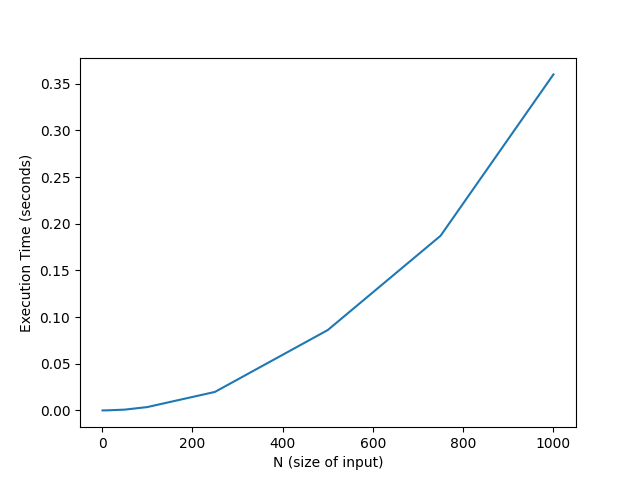
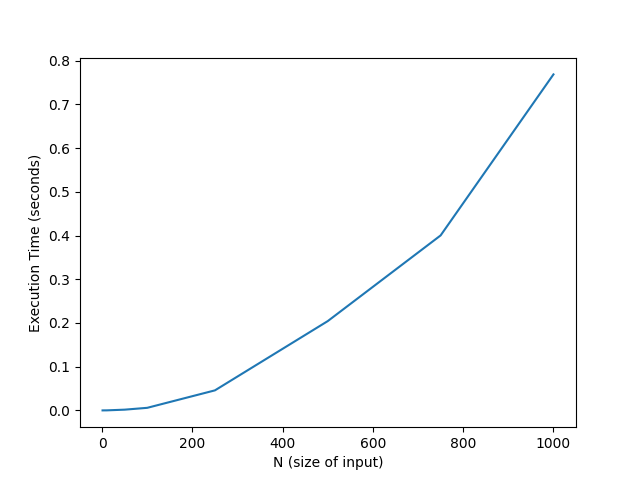
finished up print statements

diff --git a/test.py b/test.py
@@ -26,7 +26,7 @@ def run_gale_shapley_suite(args):
         end_time = time.perf_counter()
         elapsed_time = end_time - start_time
 
-        print(f"GS Execution Time: {elapsed_time:0.5f} seconds")
+        #print(f"GS Execution Time: {elapsed_time:0.5f} seconds")
     
         data[0].append(n), data[1].append(elapsed_time)
 
@@ -45,7 +45,7 @@ def run_gale_shapley(pref_file_path):
     end_time = time.perf_counter()
     elapsed_time = end_time - start_time
 
-    print(f"GS Execution Time: {elapsed_time:0.5f} seconds")
+    #print(f"GS Execution Time: {elapsed_time:0.5f} seconds")
 
     write_output_file(n, matching)
 
@@ -54,15 +54,25 @@ def run_verifier(pref_file_path, match_file_path):
     match_dir = Path(match_file_path)
 
     match_data = check_file_validity(match_dir)
+    if not match_data:
+        return
+    
     pref_data = read_input_file(pref_dir)
 
     start_time = time.perf_counter()
     result = check_stability(match_data, pref_data[1], pref_data[2])
-    print(result)
+    
+    if(result):
+        print(f"Test with n = {pref_data[0]} ")
+        print("UNSTABLE ", result)
+        
     end_time = time.perf_counter()
     elapsed_time = end_time - start_time
-
-    print(f"Verifier Execution Time: {elapsed_time:0.5f} seconds")
+    
+    if(match_data and not result):
+        print(f"Test with n = {pref_data[0]} ")
+        print("VALID STABLE")
+    #print(f"Verifier Execution Time: {elapsed_time:0.5f} seconds")
 
 def run_verifier_suite(pref_path, match_path):
     pref_dir = Path(pref_path)
@@ -83,15 +93,30 @@ def run_verifier_suite(pref_path, match_path):
     for pref_file, match_file in zip(pref_files, match_files):
         pref_data = read_input_file(pref_file)
         match_data = check_file_validity(match_file)
+        
         n = pref_data[0]
 
+        if not match_data:
+            continue
+        
         start_time = time.perf_counter()
         result = check_stability(match_data, pref_data[1], pref_data[2])
-        print(result)
+        
+        if(result):
+            print(f"Test with n = {n} ")
+            print("UNSTABLE ", result)
+            print()
+            
+            
         end_time = time.perf_counter()
+        
         elapsed_time = end_time - start_time
-
-        print(f"Verifier Execution Time: {elapsed_time:0.5f} seconds")
+        
+        if(match_data and not result):
+            print(f"Test with n = {n} ")
+            print("VALID STABLE")
+            print()
+        
 
         data[0].append(n), data[1].append(elapsed_time)
 

diff --git a/util.py b/util.py
@@ -74,34 +74,44 @@ def check_file_validity(file_name: str) -> dict[int, int]:
         lines = file.readlines()
 
         if not lines:
-            raise ValueError("ERROR::FILE_FORMAT - Match file is empty")
+            print("INVALID - Match file is empty")
+            return None
 
         for line_num, line in enumerate(lines, start=1):
             line = line.strip()
 
             if not line:
-                raise ValueError(f"ERROR:::FILE_FORMAT - Empty line in match file @ {line_num}")
+                print(f"INVALID - Empty line in match file @ {line_num}")
+                return None
 
             pair = line.split()
 
             if len(pair) != 2:
-                raise ValueError(f"ERROR:::FILE_FORMAT - Invalid format of matching in match file @ {line_num}")
+                print(f"INVALID - Invalid format of matching in match file @ {line_num}")
+                return None
 
             try:
                 hospital = int(pair[0])
                 student = int(pair[1])
             except:
-                raise ValueError(f"ERROR:::FILE_FORMAT - Non-integer value in matching @ {line_num}")
+                print(f"INVALID - Non-integer value in matching @ {line_num}")
+                return None
 
             if hospital in hospital_seen:
-                raise ValueError("Invalid Matching - Output file has duplicate hospitals matched")
+                print("INVALID - Output file has duplicate hospitals matched")
+                return None
             
             if student in student_seen:
-                raise ValueError("Invalid Matching - Output file has duplicate students matched")
+                print("INVALID - Output file has duplicate students matched")
+                return None
 
             hospital_seen.add(hospital)
             student_seen.add(student)
             matches[hospital] = student
+            
+        if 0 in matches.values():
+           print("INVALID - All hospitals not matched to all students")
+           return None
 
         return matches
 

diff --git a/src/verify/verifier.py b/src/verify/verifier.py
@@ -35,6 +35,6 @@ def check_stability(hospital_matching: dict[int,int],
             index_matched_h = student_pref[s].index(student_matching[s])
             
             if(index_unmatched_s < index_matched_s and index_unmatched_h < index_matched_h):
-                return "NOT STABLE", (h_match, s)
+                return (h_match, s)
            
-    return "STABLE", None
+    return None
